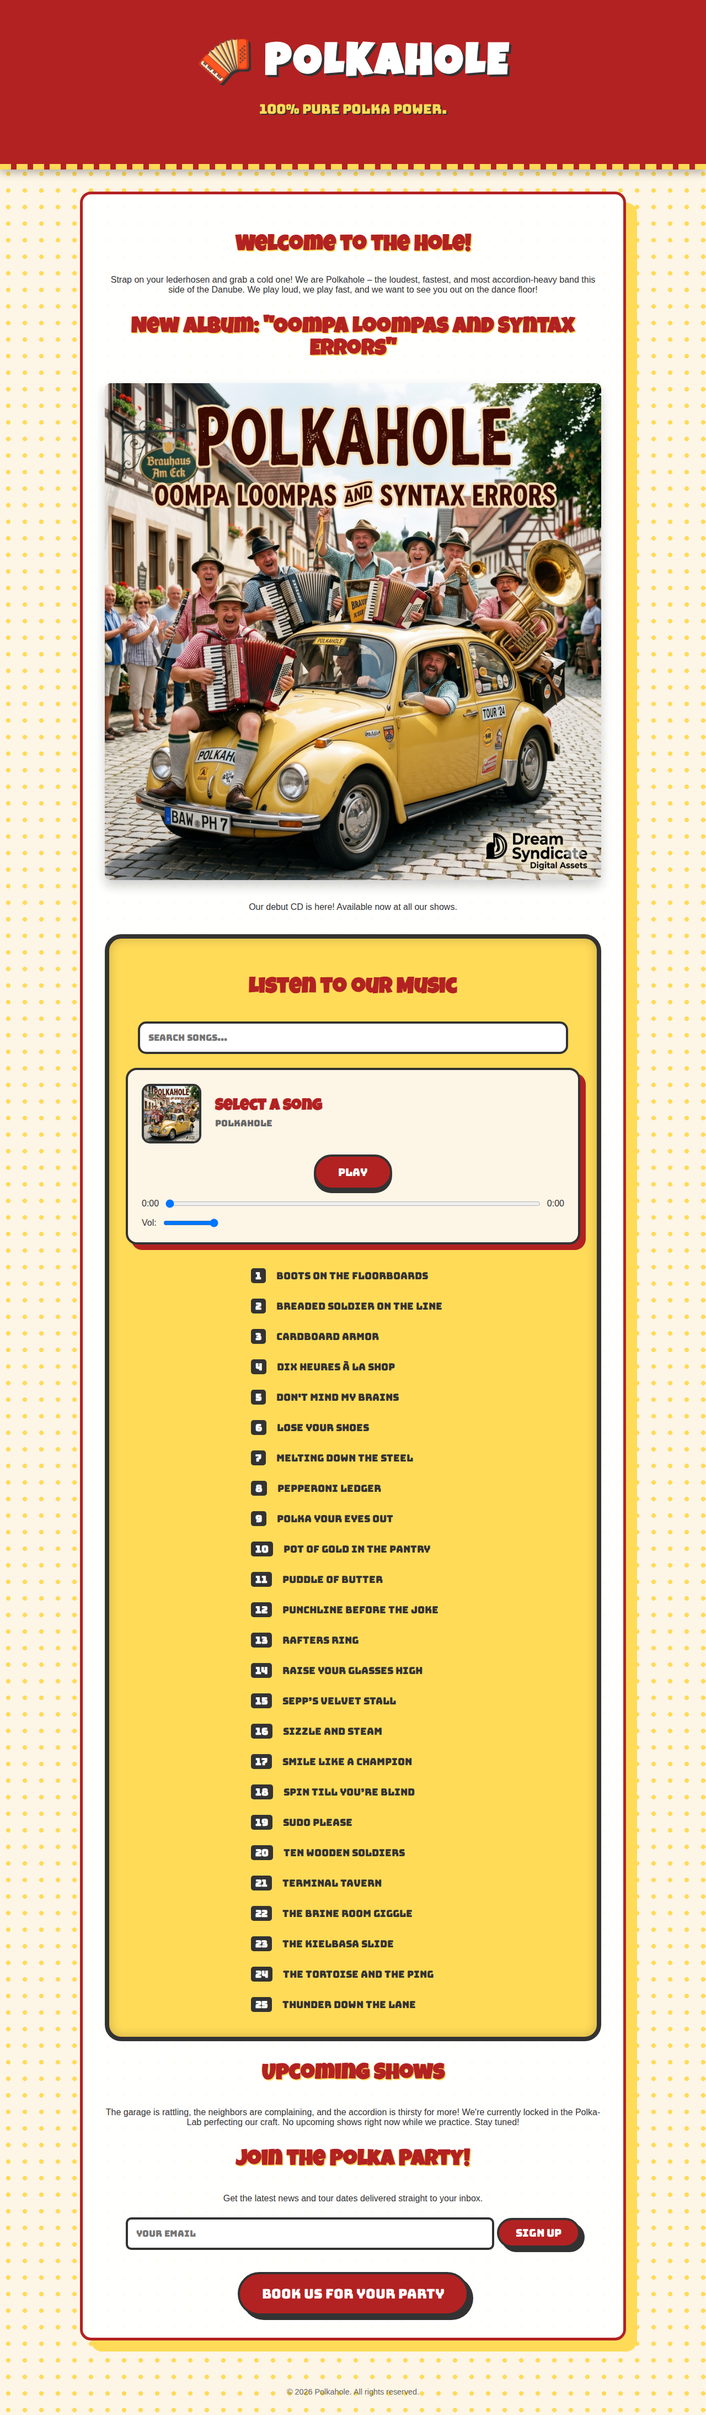
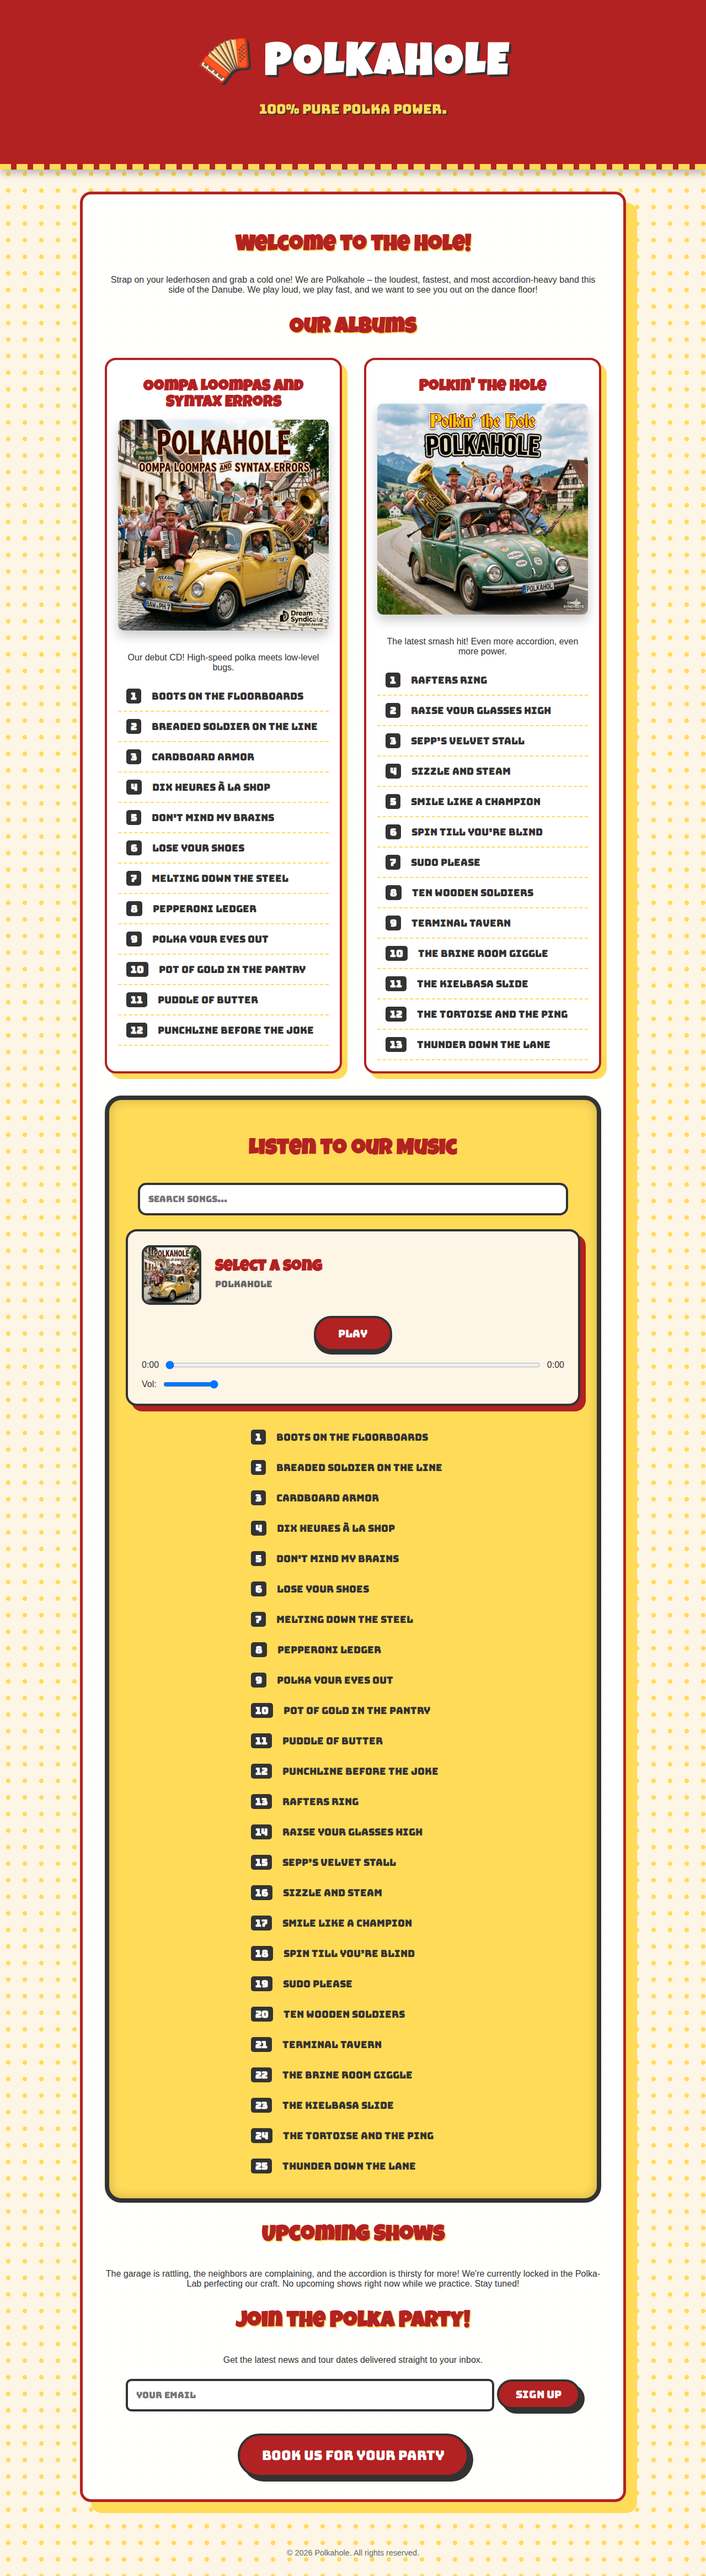
Add 'Polkin'\'' the Hole' album and reorganize tracks
- Split the 25 tracks between 'Oompa Loompas and Syntax Errors' (12 songs) and the new album 'Polkin'\'' the Hole' (13 songs).
- Updated the UI with an album grid to display both albums with their respective covers.
- Enhanced the music player to dynamically switch album art based on the current track.
- Updated Schema.org metadata for SEO to reflect both albums.
- Cleaned up development artifacts and junk files.

diff --git a/index.html b/index.html
@@ -28,138 +28,47 @@
       "name": "Polkahole",
       "url": "https://polkahole.ca",
       "genre": "Polka",
-      "album": {
-        "@type": "MusicAlbum",
-        "name": "Oompa Loompas and Syntax Errors",
-        "image": "Gemini_Generated_Image_tevx5btevx5btevx.png",
-        "track": [
-          {
-            "@type": "MusicRecording",
-            "name": "Boots on the Floorboards",
-            "url": "songs/Boots_on_the_Floorboards.mp3"
-          },
-          {
-            "@type": "MusicRecording",
-            "name": "Breaded Soldier on the Line",
-            "url": "songs/Breaded_Soldier_on_the_Line.mp3"
-          },
-          {
-            "@type": "MusicRecording",
-            "name": "Cardboard Armor",
-            "url": "songs/Cardboard_Armor.mp3"
-          },
-          {
-            "@type": "MusicRecording",
-            "name": "Dix heures à la shop",
-            "url": "songs/Dix_heures_à_la_shop.mp3"
-          },
-          {
-            "@type": "MusicRecording",
-            "name": "Don't Mind My Brains",
-            "url": "songs/Don_t_Mind_My_Brains.mp3"
-          },
-          {
-            "@type": "MusicRecording",
-            "name": "Lose Your Shoes",
-            "url": "songs/Lose_Your_Shoes.mp3"
-          },
-          {
-            "@type": "MusicRecording",
-            "name": "Melting Down the Steel",
-            "url": "songs/Melting_Down_the_Steel.mp3"
-          },
-          {
-            "@type": "MusicRecording",
-            "name": "Pepperoni Ledger",
-            "url": "songs/Pepperoni_Ledger.mp3"
-          },
-          {
-            "@type": "MusicRecording",
-            "name": "Polka Your Eyes Out",
-            "url": "songs/Polka_Your_Eyes_Out.mp3"
-          },
-          {
-            "@type": "MusicRecording",
-            "name": "Pot of Gold in the Pantry",
-            "url": "songs/Pot_of_Gold_in_the_Pantry.mp3"
-          },
-          {
-            "@type": "MusicRecording",
-            "name": "Puddle of Butter",
-            "url": "songs/Puddle_of_Butter.mp3"
-          },
-          {
-            "@type": "MusicRecording",
-            "name": "Punchline Before the Joke",
-            "url": "songs/Punchline_Before_the_Joke.mp3"
-          },
-          {
-            "@type": "MusicRecording",
-            "name": "Rafters Ring",
-            "url": "songs/Rafters_Ring.mp3"
-          },
-          {
-            "@type": "MusicRecording",
-            "name": "Raise Your Glasses High",
-            "url": "songs/Raise_Your_Glasses_High.mp3"
-          },
-          {
-            "@type": "MusicRecording",
-            "name": "Sepp’s Velvet Stall",
-            "url": "songs/Sepp’s_Velvet_Stall.mp3"
-          },
-          {
-            "@type": "MusicRecording",
-            "name": "Sizzle and Steam",
-            "url": "songs/Sizzle_and_Steam.mp3"
-          },
-          {
-            "@type": "MusicRecording",
-            "name": "Smile Like a Champion",
-            "url": "songs/Smile_Like_a_Champion.mp3"
-          },
-          {
-            "@type": "MusicRecording",
-            "name": "Spin Till You’re Blind",
-            "url": "songs/Spin_Till_You’re_Blind.mp3"
-          },
-          {
-            "@type": "MusicRecording",
-            "name": "Sudo Please",
-            "url": "songs/Sudo_Please.mp3"
-          },
-          {
-            "@type": "MusicRecording",
-            "name": "Ten Wooden Soldiers",
-            "url": "songs/Ten_Wooden_Soldiers.mp3"
-          },
-          {
-            "@type": "MusicRecording",
-            "name": "Terminal Tavern",
-            "url": "songs/Terminal_Tavern.mp3"
-          },
-          {
-            "@type": "MusicRecording",
-            "name": "The Brine Room Giggle",
-            "url": "songs/The_Brine_Room_Giggle.mp3"
-          },
-          {
-            "@type": "MusicRecording",
-            "name": "The Kielbasa Slide",
-            "url": "songs/The_Kielbasa_Slide.mp3"
-          },
-          {
-            "@type": "MusicRecording",
-            "name": "The Tortoise and the Ping",
-            "url": "songs/The_Tortoise_and_the_Ping.mp3"
-          },
-          {
-            "@type": "MusicRecording",
-            "name": "Thunder Down the Lane",
-            "url": "songs/Thunder_Down_the_Lane.mp3"
-          }
-        ]
-      }
+      "album": [
+        {
+          "@type": "MusicAlbum",
+          "name": "Oompa Loompas and Syntax Errors",
+          "image": "Gemini_Generated_Image_tevx5btevx5btevx.png",
+          "track": [
+            { "@type": "MusicRecording", "name": "Boots on the Floorboards", "url": "songs/Boots_on_the_Floorboards.mp3" },
+            { "@type": "MusicRecording", "name": "Breaded Soldier on the Line", "url": "songs/Breaded_Soldier_on_the_Line.mp3" },
+            { "@type": "MusicRecording", "name": "Cardboard Armor", "url": "songs/Cardboard_Armor.mp3" },
+            { "@type": "MusicRecording", "name": "Dix heures à la shop", "url": "songs/Dix_heures_à_la_shop.mp3" },
+            { "@type": "MusicRecording", "name": "Don't Mind My Brains", "url": "songs/Don_t_Mind_My_Brains.mp3" },
+            { "@type": "MusicRecording", "name": "Lose Your Shoes", "url": "songs/Lose_Your_Shoes.mp3" },
+            { "@type": "MusicRecording", "name": "Melting Down the Steel", "url": "songs/Melting_Down_the_Steel.mp3" },
+            { "@type": "MusicRecording", "name": "Pepperoni Ledger", "url": "songs/Pepperoni_Ledger.mp3" },
+            { "@type": "MusicRecording", "name": "Polka Your Eyes Out", "url": "songs/Polka_Your_Eyes_Out.mp3" },
+            { "@type": "MusicRecording", "name": "Pot of Gold in the Pantry", "url": "songs/Pot_of_Gold_in_the_Pantry.mp3" },
+            { "@type": "MusicRecording", "name": "Puddle of Butter", "url": "songs/Puddle_of_Butter.mp3" },
+            { "@type": "MusicRecording", "name": "Punchline Before the Joke", "url": "songs/Punchline_Before_the_Joke.mp3" }
+          ]
+        },
+        {
+          "@type": "MusicAlbum",
+          "name": "Polkin' the Hole",
+          "image": "Gemini_Generated_Image_6sl51i6sl51i6sl5.png",
+          "track": [
+            { "@type": "MusicRecording", "name": "Rafters Ring", "url": "songs/Rafters_Ring.mp3" },
+            { "@type": "MusicRecording", "name": "Raise Your Glasses High", "url": "songs/Raise_Your_Glasses_High.mp3" },
+            { "@type": "MusicRecording", "name": "Sepp’s Velvet Stall", "url": "songs/Sepp’s_Velvet_Stall.mp3" },
+            { "@type": "MusicRecording", "name": "Sizzle and Steam", "url": "songs/Sizzle_and_Steam.mp3" },
+            { "@type": "MusicRecording", "name": "Smile Like a Champion", "url": "songs/Smile_Like_a_Champion.mp3" },
+            { "@type": "MusicRecording", "name": "Spin Till You’re Blind", "url": "songs/Spin_Till_You’re_Blind.mp3" },
+            { "@type": "MusicRecording", "name": "Sudo Please", "url": "songs/Sudo_Please.mp3" },
+            { "@type": "MusicRecording", "name": "Ten Wooden Soldiers", "url": "songs/Ten_Wooden_Soldiers.mp3" },
+            { "@type": "MusicRecording", "name": "Terminal Tavern", "url": "songs/Terminal_Tavern.mp3" },
+            { "@type": "MusicRecording", "name": "The Brine Room Giggle", "url": "songs/The_Brine_Room_Giggle.mp3" },
+            { "@type": "MusicRecording", "name": "The Kielbasa Slide", "url": "songs/The_Kielbasa_Slide.mp3" },
+            { "@type": "MusicRecording", "name": "The Tortoise and the Ping", "url": "songs/The_Tortoise_and_the_Ping.mp3" },
+            { "@type": "MusicRecording", "name": "Thunder Down the Lane", "url": "songs/Thunder_Down_the_Lane.mp3" }
+          ]
+        }
+      ]
     }
     </script>
 
@@ -223,6 +132,26 @@
         /* New styling for the Album Section */
         .album-section {
             margin: 40px 0;
+        }
+        .albums-grid {
+            display: grid;
+            grid-template-columns: repeat(auto-fit, minmax(350px, 1fr));
+            gap: 40px;
+            margin-top: 30px;
+        }
+        .album-card {
+            background: #fff;
+            padding: 20px;
+            border: 4px solid #b22222;
+            border-radius: 20px;
+            box-shadow: 10px 10px 0px #ffdb58;
+            text-align: center;
+        }
+        .album-card h4 {
+            font-family: 'Luckiest Guy', cursive;
+            color: #b22222;
+            font-size: 1.8em;
+            margin: 15px 0;
         }
         .cd-cover {
             max-width: 100%;
@@ -462,9 +391,48 @@
         </section>
 
         <section id="album" class="album-section">
-            <h3>New Album: "Oompa Loompas and Syntax Errors"</h3>
-            <img src="Gemini_Generated_Image_tevx5btevx5btevx.png" alt="Polkahole CD Cover Art" class="cd-cover">
-            <p>Our debut CD is here! Available now at all our shows.</p>
+            <h2>Our Albums</h2>
+            <div class="albums-grid">
+                <div class="album-card">
+                    <h4>Oompa Loompas and Syntax Errors</h4>
+                    <img src="Gemini_Generated_Image_tevx5btevx5btevx.png" alt="Oompa Loompas and Syntax Errors CD Cover Art" class="cd-cover">
+                    <p>Our debut CD! High-speed polka meets low-level bugs.</p>
+                    <ul class="tracklist" style="margin-top: 15px;">
+                        <li><span class="track-num">1</span> Boots on the Floorboards</li>
+                        <li><span class="track-num">2</span> Breaded Soldier on the Line</li>
+                        <li><span class="track-num">3</span> Cardboard Armor</li>
+                        <li><span class="track-num">4</span> Dix heures à la shop</li>
+                        <li><span class="track-num">5</span> Don't Mind My Brains</li>
+                        <li><span class="track-num">6</span> Lose Your Shoes</li>
+                        <li><span class="track-num">7</span> Melting Down the Steel</li>
+                        <li><span class="track-num">8</span> Pepperoni Ledger</li>
+                        <li><span class="track-num">9</span> Polka Your Eyes Out</li>
+                        <li><span class="track-num">10</span> Pot of Gold in the Pantry</li>
+                        <li><span class="track-num">11</span> Puddle of Butter</li>
+                        <li><span class="track-num">12</span> Punchline Before the Joke</li>
+                    </ul>
+                </div>
+                <div class="album-card">
+                    <h4>Polkin' the Hole</h4>
+                    <img src="Gemini_Generated_Image_6sl51i6sl51i6sl5.png" alt="Polkin' the Hole CD Cover Art" class="cd-cover">
+                    <p>The latest smash hit! Even more accordion, even more power.</p>
+                    <ul class="tracklist" style="margin-top: 15px;">
+                        <li><span class="track-num">1</span> Rafters Ring</li>
+                        <li><span class="track-num">2</span> Raise Your Glasses High</li>
+                        <li><span class="track-num">3</span> Sepp’s Velvet Stall</li>
+                        <li><span class="track-num">4</span> Sizzle and Steam</li>
+                        <li><span class="track-num">5</span> Smile Like a Champion</li>
+                        <li><span class="track-num">6</span> Spin Till You’re Blind</li>
+                        <li><span class="track-num">7</span> Sudo Please</li>
+                        <li><span class="track-num">8</span> Ten Wooden Soldiers</li>
+                        <li><span class="track-num">9</span> Terminal Tavern</li>
+                        <li><span class="track-num">10</span> The Brine Room Giggle</li>
+                        <li><span class="track-num">11</span> The Kielbasa Slide</li>
+                        <li><span class="track-num">12</span> The Tortoise and the Ping</li>
+                        <li><span class="track-num">13</span> Thunder Down the Lane</li>
+                    </ul>
+                </div>
+            </div>
         </section>
         
         <section id="music" class="player-container">
@@ -521,31 +489,31 @@
 
     <script>
         const songs = [
-            { title: "Boots on the Floorboards", file: "songs/Boots_on_the_Floorboards.mp3" },
-            { title: "Breaded Soldier on the Line", file: "songs/Breaded_Soldier_on_the_Line.mp3" },
-            { title: "Cardboard Armor", file: "songs/Cardboard_Armor.mp3" },
-            { title: "Dix heures à la shop", file: "songs/Dix_heures_à_la_shop.mp3" },
-            { title: "Don't Mind My Brains", file: "songs/Don_t_Mind_My_Brains.mp3" },
-            { title: "Lose Your Shoes", file: "songs/Lose_Your_Shoes.mp3" },
-            { title: "Melting Down the Steel", file: "songs/Melting_Down_the_Steel.mp3" },
-            { title: "Pepperoni Ledger", file: "songs/Pepperoni_Ledger.mp3" },
-            { title: "Polka Your Eyes Out", file: "songs/Polka_Your_Eyes_Out.mp3" },
-            { title: "Pot of Gold in the Pantry", file: "songs/Pot_of_Gold_in_the_Pantry.mp3" },
-            { title: "Puddle of Butter", file: "songs/Puddle_of_Butter.mp3" },
-            { title: "Punchline Before the Joke", file: "songs/Punchline_Before_the_Joke.mp3" },
-            { title: "Rafters Ring", file: "songs/Rafters_Ring.mp3" },
-            { title: "Raise Your Glasses High", file: "songs/Raise_Your_Glasses_High.mp3" },
-            { title: "Sepp’s Velvet Stall", file: "songs/Sepp’s_Velvet_Stall.mp3" },
-            { title: "Sizzle and Steam", file: "songs/Sizzle_and_Steam.mp3" },
-            { title: "Smile Like a Champion", file: "songs/Smile_Like_a_Champion.mp3" },
-            { title: "Spin Till You’re Blind", file: "songs/Spin_Till_You’re_Blind.mp3" },
-            { title: "Sudo Please", file: "songs/Sudo_Please.mp3" },
-            { title: "Ten Wooden Soldiers", file: "songs/Ten_Wooden_Soldiers.mp3" },
-            { title: "Terminal Tavern", file: "songs/Terminal_Tavern.mp3" },
-            { title: "The Brine Room Giggle", file: "songs/The_Brine_Room_Giggle.mp3" },
-            { title: "The Kielbasa Slide", file: "songs/The_Kielbasa_Slide.mp3" },
-            { title: "The Tortoise and the Ping", file: "songs/The_Tortoise_and_the_Ping.mp3" },
-            { title: "Thunder Down the Lane", file: "songs/Thunder_Down_the_Lane.mp3" }
+            { title: "Boots on the Floorboards", file: "songs/Boots_on_the_Floorboards.mp3", albumArt: "Gemini_Generated_Image_tevx5btevx5btevx.png" },
+            { title: "Breaded Soldier on the Line", file: "songs/Breaded_Soldier_on_the_Line.mp3", albumArt: "Gemini_Generated_Image_tevx5btevx5btevx.png" },
+            { title: "Cardboard Armor", file: "songs/Cardboard_Armor.mp3", albumArt: "Gemini_Generated_Image_tevx5btevx5btevx.png" },
+            { title: "Dix heures à la shop", file: "songs/Dix_heures_à_la_shop.mp3", albumArt: "Gemini_Generated_Image_tevx5btevx5btevx.png" },
+            { title: "Don't Mind My Brains", file: "songs/Don_t_Mind_My_Brains.mp3", albumArt: "Gemini_Generated_Image_tevx5btevx5btevx.png" },
+            { title: "Lose Your Shoes", file: "songs/Lose_Your_Shoes.mp3", albumArt: "Gemini_Generated_Image_tevx5btevx5btevx.png" },
+            { title: "Melting Down the Steel", file: "songs/Melting_Down_the_Steel.mp3", albumArt: "Gemini_Generated_Image_tevx5btevx5btevx.png" },
+            { title: "Pepperoni Ledger", file: "songs/Pepperoni_Ledger.mp3", albumArt: "Gemini_Generated_Image_tevx5btevx5btevx.png" },
+            { title: "Polka Your Eyes Out", file: "songs/Polka_Your_Eyes_Out.mp3", albumArt: "Gemini_Generated_Image_tevx5btevx5btevx.png" },
+            { title: "Pot of Gold in the Pantry", file: "songs/Pot_of_Gold_in_the_Pantry.mp3", albumArt: "Gemini_Generated_Image_tevx5btevx5btevx.png" },
+            { title: "Puddle of Butter", file: "songs/Puddle_of_Butter.mp3", albumArt: "Gemini_Generated_Image_tevx5btevx5btevx.png" },
+            { title: "Punchline Before the Joke", file: "songs/Punchline_Before_the_Joke.mp3", albumArt: "Gemini_Generated_Image_tevx5btevx5btevx.png" },
+            { title: "Rafters Ring", file: "songs/Rafters_Ring.mp3", albumArt: "Gemini_Generated_Image_6sl51i6sl51i6sl5.png" },
+            { title: "Raise Your Glasses High", file: "songs/Raise_Your_Glasses_High.mp3", albumArt: "Gemini_Generated_Image_6sl51i6sl51i6sl5.png" },
+            { title: "Sepp’s Velvet Stall", file: "songs/Sepp’s_Velvet_Stall.mp3", albumArt: "Gemini_Generated_Image_6sl51i6sl51i6sl5.png" },
+            { title: "Sizzle and Steam", file: "songs/Sizzle_and_Steam.mp3", albumArt: "Gemini_Generated_Image_6sl51i6sl51i6sl5.png" },
+            { title: "Smile Like a Champion", file: "songs/Smile_Like_a_Champion.mp3", albumArt: "Gemini_Generated_Image_6sl51i6sl51i6sl5.png" },
+            { title: "Spin Till You’re Blind", file: "songs/Spin_Till_You’re_Blind.mp3", albumArt: "Gemini_Generated_Image_6sl51i6sl51i6sl5.png" },
+            { title: "Sudo Please", file: "songs/Sudo_Please.mp3", albumArt: "Gemini_Generated_Image_6sl51i6sl51i6sl5.png" },
+            { title: "Ten Wooden Soldiers", file: "songs/Ten_Wooden_Soldiers.mp3", albumArt: "Gemini_Generated_Image_6sl51i6sl51i6sl5.png" },
+            { title: "Terminal Tavern", file: "songs/Terminal_Tavern.mp3", albumArt: "Gemini_Generated_Image_6sl51i6sl51i6sl5.png" },
+            { title: "The Brine Room Giggle", file: "songs/The_Brine_Room_Giggle.mp3", albumArt: "Gemini_Generated_Image_6sl51i6sl51i6sl5.png" },
+            { title: "The Kielbasa Slide", file: "songs/The_Kielbasa_Slide.mp3", albumArt: "Gemini_Generated_Image_6sl51i6sl51i6sl5.png" },
+            { title: "The Tortoise and the Ping", file: "songs/The_Tortoise_and_the_Ping.mp3", albumArt: "Gemini_Generated_Image_6sl51i6sl51i6sl5.png" },
+            { title: "Thunder Down the Lane", file: "songs/Thunder_Down_the_Lane.mp3", albumArt: "Gemini_Generated_Image_6sl51i6sl51i6sl5.png" }
         ];
 
         let currentSongIndex = -1;
@@ -559,6 +527,7 @@
         const currentTimeDisplay = document.getElementById('current-time');
         const durationDisplay = document.getElementById('duration');
         const currentSongTitle = document.getElementById('current-song-title');
+        const playerAlbumArt = document.getElementById('player-album-art');
 
         function formatTime(seconds) {
             const minutes = Math.floor(seconds / 60);
@@ -570,6 +539,7 @@
             currentSongIndex = index;
             audio.src = songs[index].file;
             currentSongTitle.textContent = songs[index].title;
+            playerAlbumArt.src = songs[index].albumArt;
             audio.play();
             playPauseBtn.textContent = 'Pause';
         }

diff --git a/verification/verify_album_split.py b/verification/verify_album_split.py
@@ -1,0 +1,40 @@
+import pytest
+from playwright.sync_api import Page, expect
+
+def test_album_display(page: Page):
+    page.goto("http://localhost:8080/index.html")
+
+    # Check for the main heading
+    expect(page.locator("h2:has-text('Our Albums')")).to_be_visible()
+
+    # Check for both album cards
+    expect(page.locator("h4:has-text('Oompa Loompas and Syntax Errors')")).to_be_visible()
+    expect(page.locator("h4:has-text(\"Polkin' the Hole\")")).to_be_visible()
+
+    # Check for both album covers
+    expect(page.locator("img[alt='Oompa Loompas and Syntax Errors CD Cover Art']")).to_be_visible()
+    expect(page.locator("img[alt=\"Polkin' the Hole CD Cover Art\"]")).to_be_visible()
+
+def test_track_counts(page: Page):
+    page.goto("http://localhost:8080/index.html")
+
+    # Oompa Loompas should have 12 tracks
+    oompa_tracks = page.locator(".album-card").filter(has_text="Oompa Loompas and Syntax Errors").locator(".tracklist li")
+    expect(oompa_tracks).to_have_count(12)
+
+    # Polkin' the Hole should have 13 tracks
+    polkin_tracks = page.locator(".album-card").filter(has_text="Polkin' the Hole").locator(".tracklist li")
+    expect(polkin_tracks).to_have_count(13)
+
+def test_player_art_switching(page: Page):
+    page.goto("http://localhost:8080/index.html")
+
+    player_art = page.locator("#player-album-art")
+
+    # Load first song (Oompa Loompas)
+    page.locator("#song-list li").nth(0).click()
+    expect(player_art).to_have_attribute("src", "Gemini_Generated_Image_tevx5btevx5btevx.png")
+
+    # Load 13th song (Polkin' the Hole)
+    page.locator("#song-list li").nth(12).click()
+    expect(player_art).to_have_attribute("src", "Gemini_Generated_Image_6sl51i6sl51i6sl5.png")
